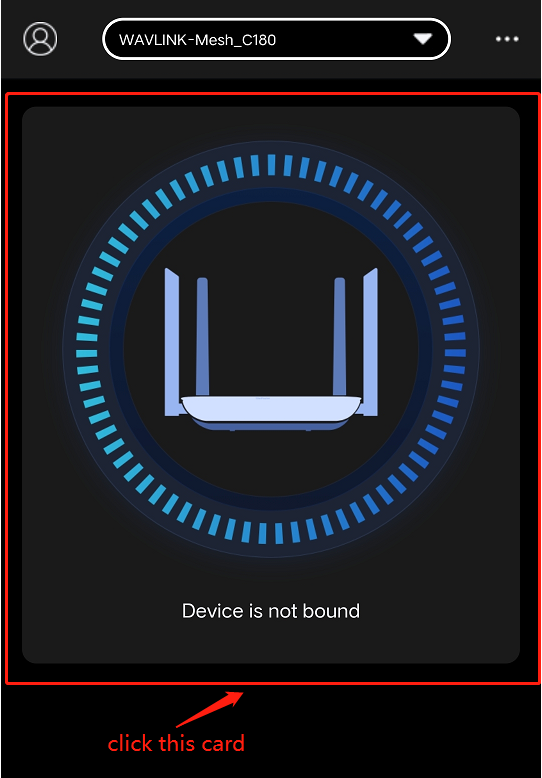
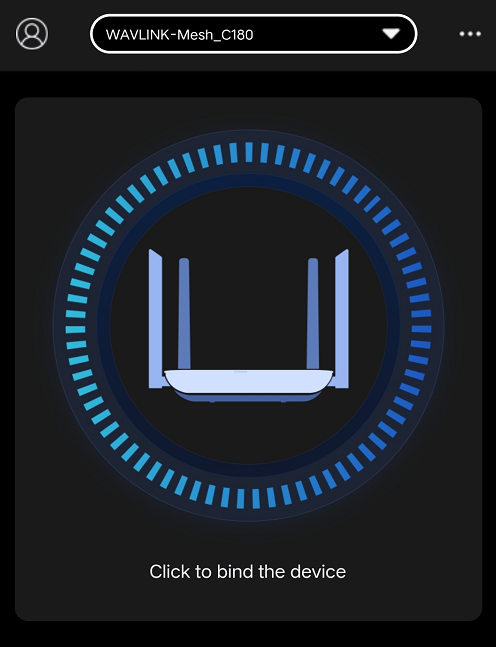
feature guide update 1208

diff --git a/docs/FAQ/first_time_setup.md b/docs/FAQ/first_time_setup.md
@@ -72,7 +72,7 @@ The first setup of most wavlink routers is very similar. We provide you with tut
 		<img class="boxshadow" src="/images/app009.png">
 		</div>	
 		
-		7 . After the connection is successful,click the return button on your phone to __return to the main page__, and __click the card on the main page__.(Like the example below.)
+		7 . After the connection is successful,click the return button on your phone to __return to the main page__, and __Click "Local Connected" to enter the initial configuration.__.(Like the example below.)
 		
 		<div style="text-align: center;">
 		<img class="boxshadow" src="/images/app010.png">
@@ -139,38 +139,29 @@ The first setup of most wavlink routers is very similar. We provide you with tut
 		<img class="boxshadow" src="/images/app013.png">
 		</div>	
 		
-		12 . After clicking Refresh in the previous step, you need to __re-enter the login password__. This login password is the password you customized. After entering the password, click __"Login"__ to log in. 
-		
+		12 . After refreshing, the APP will jump to the interface shown below. You only need to __click the icon &nbsp;<img class="boxshadow" src="/images/app555.png">__ in the upper left corner to return to the main interface to __bind the device__.
 		<div style="text-align: center;">
-		<img class="boxshadow" src="/images/app014.png">
+		<img class="boxshadow" src="/images/app223.png">
 		</div>	
 		
-		13 . After successful login, you can see the following page.The initial configuration is completed
-		
-		<div style="text-align: center;">
-		<img class="boxshadow" src="/images/app015.png">
-		</div>	
-		
-		14 . In order to manage your wavlink device more conveniently, you can __bind your device according to the instructions in the picture__. The next time you log in, the APP will __automatically identify the device__ and __bind__ it, so there is no need to bind it manually.
+		13 . In order to manage your wavlink device more conveniently, you need __bind your device according to the instructions in the picture__. The next time you log in, the APP will __automatically identify the device__ and __bind__ it, so there is no need to bind it manually.
 		<div style="text-align: center;">
 		<img class="boxshadow" src="/images/app016.png">
 		</div>	
 		
-		15 . After entering the correct password, the device binding is completed. __This password is the device management password__.
+		14 . After entering the correct password, the device binding is completed. __This password is the device management password__.
 		Below are some functions of the APP. If you are interested in learning more, you can click to view them.
 		
 		<div style="text-align: center;">
 		<img class="boxshadow" src="/images/app017.png">
 		</div>	
 		
-		16 . If you need to enter the __[PC UI]__ of the device management interface, you can click the browser icon below to enter.
+		15 . After binding, you will see the following interface and __"Network is normal"__ is displayed.If you need more functional configurations, you can enter the __[PC UI]__ of the device management interface to set up. Just click the browser icon below to enter.
 		
 		<div style="text-align: center;">
 		<img class="boxshadow" src="/images/app222.png">
 		</div>	
-		<div style="text-align: center;">
-		<img class="boxshadow" src="/images/app223.png">
-		</div>	
+
 	=== "==Windows=="
 		Tools required : Desktop/laptop, two Ethernet cables, router, Ethernet converter
 		

diff --git a/docs/Products/ax6000/wn536ax6-a/index.md b/docs/Products/ax6000/wn536ax6-a/index.md
@@ -66,10 +66,12 @@ The parental control feature can help parents establish a reasonable __home netw
 ## VPN
 VPN can enhance the security and privacy of home or business networks, providing __remote access__, __data encryption__, __Wi-Fi security__ and other functions, allowing users to use the Internet more freely and safely.
 	
-- __[How to use OpenVPN?]()__
-- __[How to use WireGuard?]()__
-- __[How to set up VPN Client?]()__
-- __[How to use ZeroTier?]()__
+- __[How to use OpenVPN Client?](/feature_guide/openVPN/)__
+- __[How to use OpenVPN Server?](/feature_guide/openVPN_server/)__
+- __[How to use WireGuard Client?](/feature_guide/wireguard/)__
+- __[How to use WireGuard Server?](/feature_guide/wireguard_server/)__
+- __[How to set up VPN Client?](/feature_guide/vpnclient/)__
+- __[How to use ZeroTier?](/feature_guide/zerotier/)__
 ## More
 - [Security Settings](/feature_guide/secure/)
 - [Remote Control](/feature_guide/remote_ctrl/)

diff --git a/docs/feature_guide/openVPN_server.md b/docs/feature_guide/openVPN_server.md
@@ -5,7 +5,8 @@ OpenVPN is a virtual private network (__[VPN]()__) system that implements techno
 
 __OpenVPN Server__ refers to the computer or device running the __OpenVPN service__. The role of an OpenVPN server is to allow client devices to connect to their own private network over the Internet or other networks and establish a secure communication link.
 
-
+!!! tip
+	Our version of OpenVPN is OpenVPN 2.5.3.
 ## __Set up OpenVPN Server on wavlink router__
 
 1 . Enter the IP address of the device management interface in the browser address bar, __log in__ to the management interface, click __More Settings__, and enter __OpenVPN Server__.

diff --git a/docs/feature_guide/openVPN.md b/docs/feature_guide/openVPN.md
@@ -5,6 +5,8 @@ OpenVPN is a virtual private network (__[VPN]()__) system that implements techno
 
 __OpenVPN Client__ refers to a computer or device running OpenVPN client software. OpenVPN clients can connect to OpenVPN servers to establish secure communication links.
 
+!!! tip
+	Our version of OpenVPN is OpenVPN 2.5.3.
 ## __Set up OpenVPN Client on wavlink router__
 
 1 . Enter the IP address of the device management interface in the browser address bar, log in to the management interface, click More Settings, and enter the OpenVPN Client interface.
